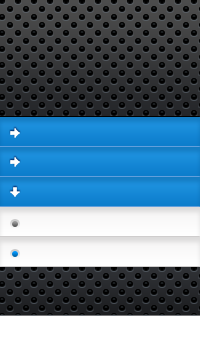
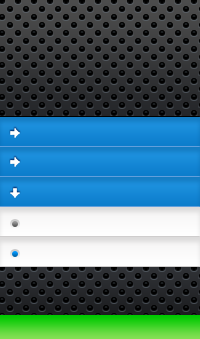
git-svn-id: https://dev.virtuemart.net/svn/virtuemart/trunk/virtuemart@3403 87cc427b-4a1e-0410-b729-b2260ec0f063

Changed region(s): [[0.0, 0.9145, 1.0, 1.0], [0.03, 0.531, 0.12, 0.59]]

diff --git a/administrator/components/com_virtuemart/assets/css/admin_menu.css b/administrator/components/com_virtuemart/assets/css/admin_menu.css
@@ -48,7 +48,7 @@
 
 .title-smenu, .title-smenu-down {
 	margin: 0px;
-	padding: 9px 10px 6px 28px;
+	padding: 9px 10px 7px 28px;
 	color: #fff;
 	cursor: pointer;
 	font-size: 12px;
@@ -72,13 +72,11 @@ div.status-divider {
 	overflow: hidden;
 }
 .sidemenu-box {
-	background: #F7F7F7;
 	float: left;
 	width: 200px;
 	
 }
 .sidemenu-box2 {
-	background: #F7F7F7;
 	float: left;
 	width: 100%;
 }
@@ -98,6 +96,20 @@ div.status-divider {
 .sidemenu-bottom {text-align: center;background: url(../images/admin_interface.png) top left no-repeat;padding: 16px 0px 17px 0px;background-position: 0px -268px;}
 .sidemenu-bottom a, .sidemenu-bottom a:visited {font-size: 12px;color: #fff;text-shadow: 1px 1px 1px #000;}
 .sidemenu-bottom a:hover {text-decoration: none;}
+
+.updates {text-align: center;}
+.updates a, .updates a:visited {display:inline-block;background: url(../images/admin_interface.png) top left no-repeat;color: #fff;background-position: 0px -315px;padding: 5px 12px 5px 12px;font-size: 12px;text-shadow: 0px -1px 0px #0d8604;font-weight: bold;
+
+-webkit-border-bottom-left-radius: 6px;
+-webkit-border-bottom-right-radius: 6px;
+-moz-border-radius-bottomleft: 6px;
+-moz-border-radius-bottomright: 6px;
+}
+
+
+
+.updates a:hover {text-decoration: none;}
+
 
 .element-box {
 	background: #fff;

diff --git a/administrator/components/com_virtuemart/assets/css/admin.styles.css b/administrator/components/com_virtuemart/assets/css/admin.styles.css
@@ -69,7 +69,7 @@
 
 .vm-layout-left{
 	float: left;
-	width: 220px;
+	width: 200px;
 }
 
 .vm-layout-right{

diff --git a/administrator/components/com_virtuemart/helpers/adminmenu.php b/administrator/components/com_virtuemart/helpers/adminmenu.php
@@ -153,6 +153,13 @@ class AdminMenuHelper {
 				    ?>
 				</a>
 		    </div>
+		    
+		    <div class="updates">
+				<?php //TODO The link should be done better
+				echo JHTML::_('link', 'index.php?option=com_virtuemart', 'Update available');
+				?>
+		    </div>
+		    
                 </div>
             </div>
         </div>
